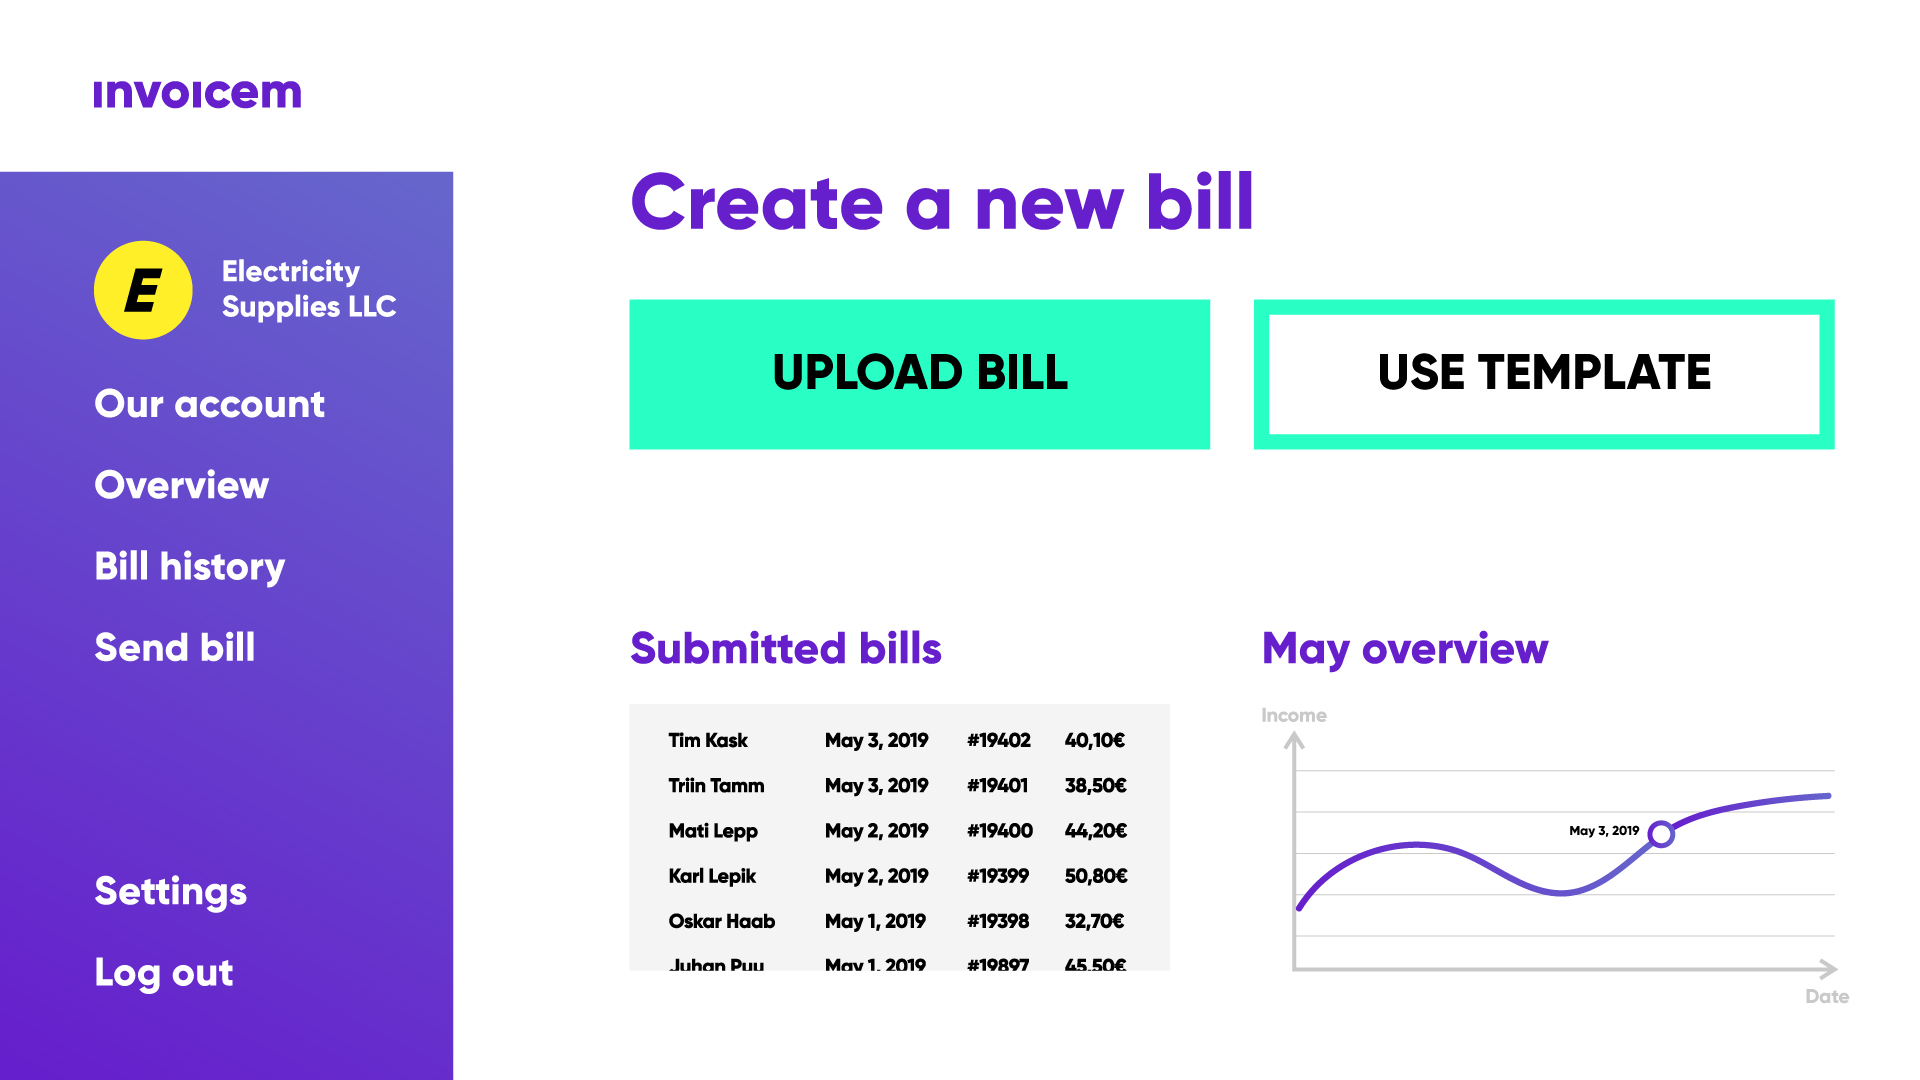
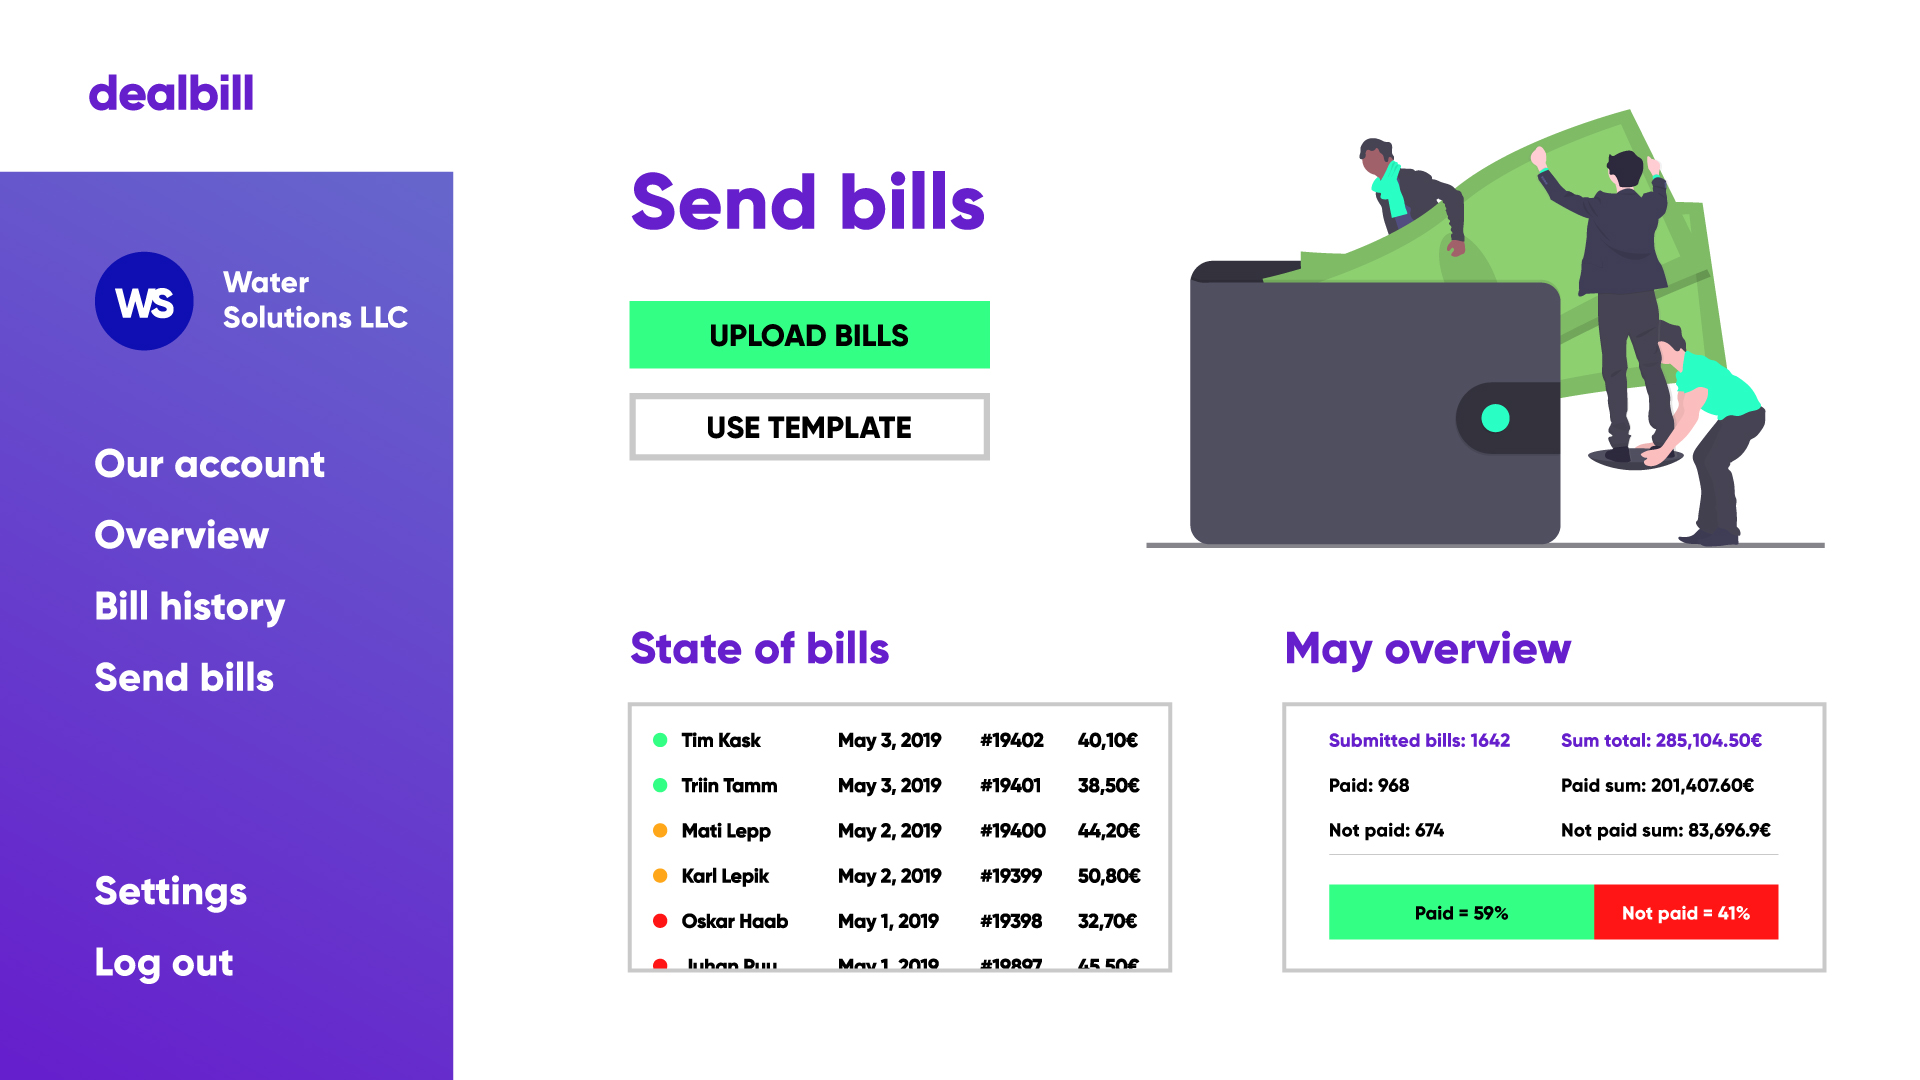
It's something

diff --git a/stylesheet.css b/stylesheet.css
@@ -10,16 +10,15 @@
 	transition-duration: 0.4s;
 	user-select: none; /* Standard */
 	font-family: "Open Sans", sans-serif;
-	font-size: 14pt;
 	background-color: transparent;
 	border: none;	
 	text-align: center;
 	cursor: pointer;
-	height: 45px;
-	width: 165px;
+	height: 60px;
+	width: 225px;
 	position: absolute;
-	left: 120px;
-	bottom: 162px;
+	left: 160px;
+	bottom: 218px;
   }
 
 
@@ -37,11 +36,11 @@
 	border: none;	
 	text-align: center;
 	cursor: pointer;
-	height: 45px;
-	width: 169px;
+	height: 60px;
+	width: 225px;
 	position: absolute;
-	left: 306px;
-	bottom: 162px;
+	left: 408px;
+	bottom: 218px;
 }
 
 .pay-bills {
@@ -56,10 +55,10 @@
 	background-color: transparent;
 	text-align: center;
 	cursor: pointer;
-	height: 50px;
-	width: 255px;
+	height: 80px;
+	width: 350px;
 	position: absolute;
-	left: 469px;
+	left: 620px;
 	bottom: 11px;
 	color: white;
 	border: none;
@@ -69,24 +68,26 @@
 	width: 200px;
 	height: 80px;
 	position: absolute;
-	top: 30px;
-	left: 50px;
+	top: 42px;
+	left: 60px;
 }
 
 .upload {
-	width: 443px;
-	height: 114px;
+	width: 375px;
+	height: 84px;
 	position: absolute;
-	top: 238px;
-	left: 490px;
+	top: 275px;
+	left: 580px;
+	background-color: transparent;
 }
 
-.use-template {
-	width: 443px;
-	height: 114px;
+.choose {
+	width: 170px;
+	height: 50px;
 	position: absolute;
-	top: 238px;
-	left: 967px;
+	bottom: -15px;
+	right: 240px;
+	background-color: transparent;
 }
 
 a.fill-div {

diff --git a/upload-bill.html b/upload-bill.html
@@ -5,17 +5,16 @@
 	<link rel="stylesheet" type="text/css" href="stylesheet.css">
 </head>
 <body>
-	<div class="background">
-		<img class="bgimage" src="TWHack-Company-Dashboard.jpg">
+	<div>
+		<img class="bgimage" src="TWHack-Company-Bills.jpg">
 
 		<div class="clickable">
       		<a href="index.html" class="fill-div"></a>
-      	</div>
+     	</div>
 
-      	<div class="upload">
-      		<a href="upload-bill.html" class="fill-div"></a>
+     	<div class="choose">
+      		<a href="c-success.html" class="fill-div"></a>
       	</div>
-		
 	</div>
 </body>
 </html>
